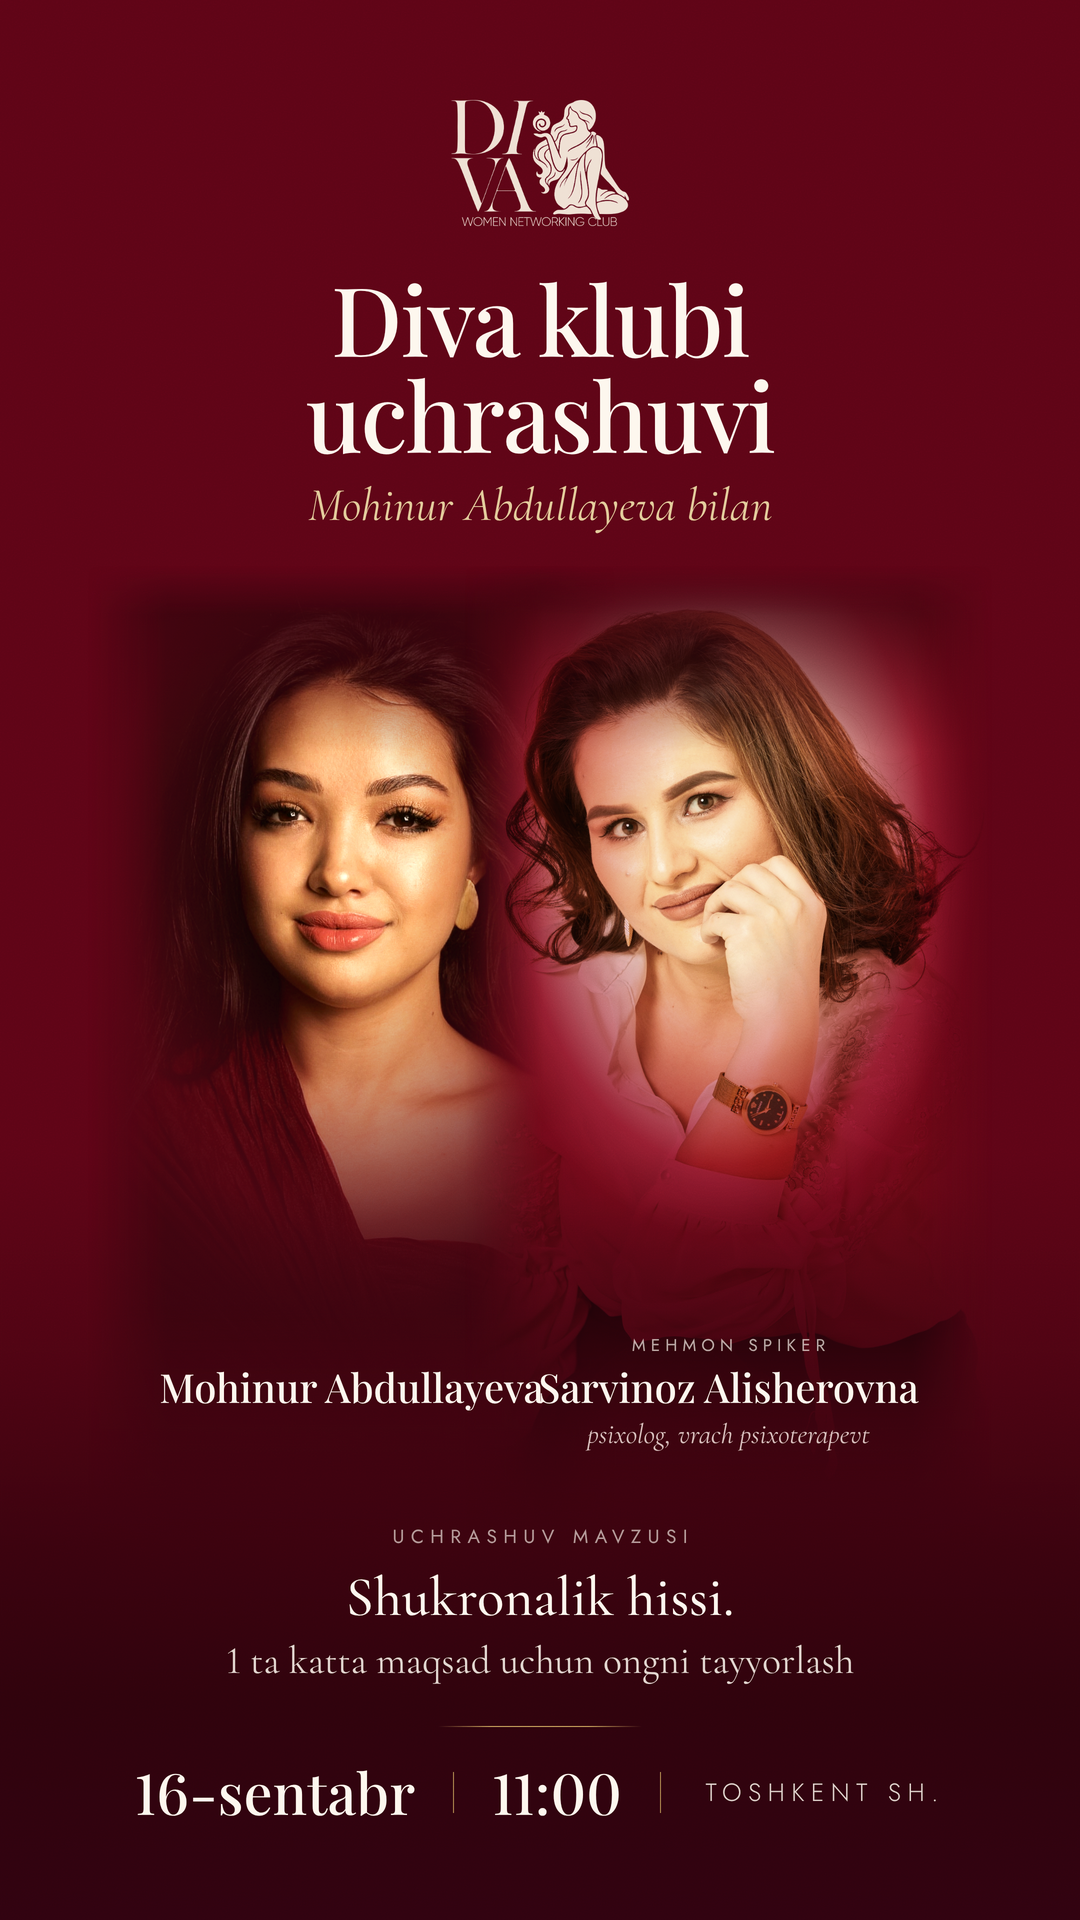
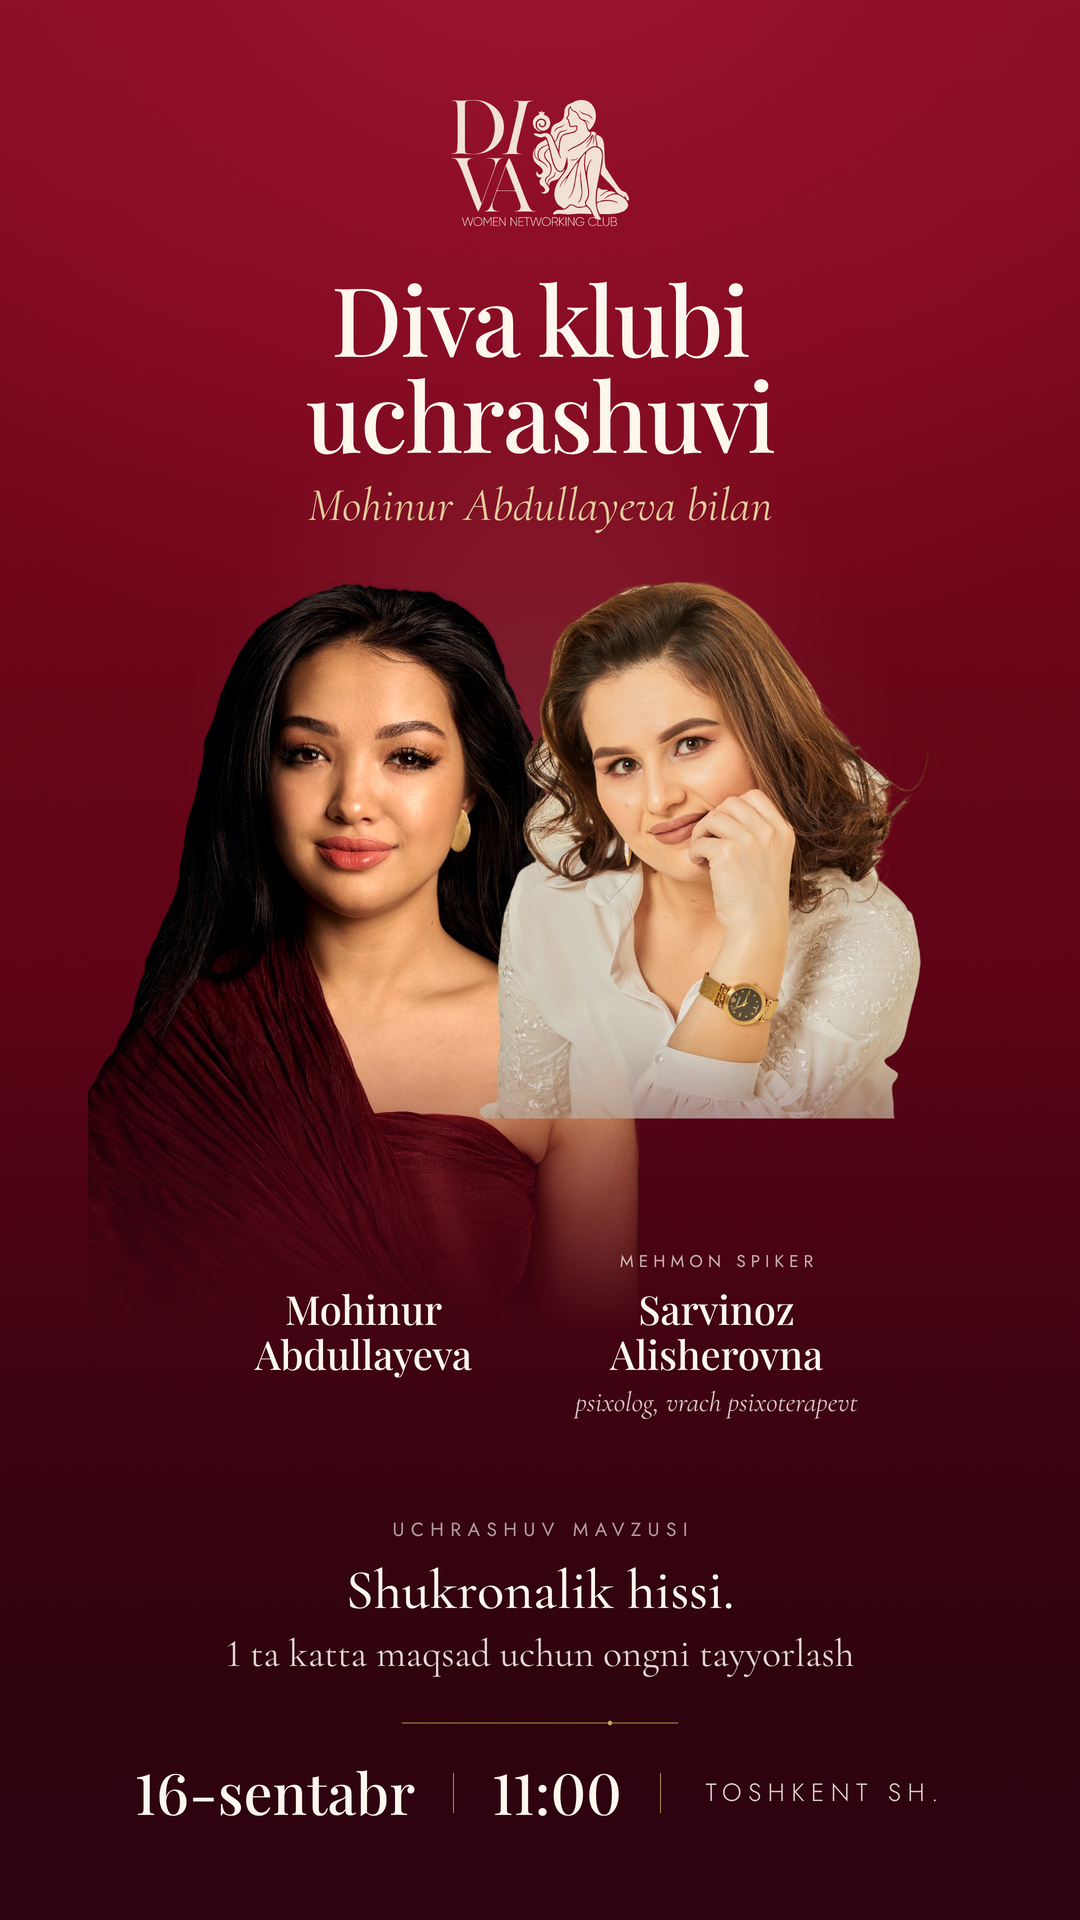
Snapshot in-flight design work
Claude-Session: https://claude.ai/code/session_01CJcxAKvhDYH9Z96uyo456t

diff --git a/diva-club-posts/variant-a.html b/diva-club-posts/variant-a.html
@@ -8,10 +8,10 @@
 <style>
 /* =======================================================================
    VARIANT A — "Modern maroon"
-   A deep maroon field, the two women placed large and frameless (a soft
-   photographic dissolve — no ring, no window, no cut-out rectangle), and a
-   contemporary centred type grid. Decoration budget: one gold hairline,
-   two gold tick rules in the date row. Nothing else.
+   A deep maroon field; the two women stand large and frameless (background
+   removed, the body dissolving into the ground — no ring, no window, no
+   photo rectangle); a contemporary centred type grid above and below.
+   Ornament budget: one gold hairline mark above the date. Nothing else.
    ======================================================================= */
 
 .canvas {
@@ -19,7 +19,7 @@
   color: var(--cream);
   font-family: var(--serif);
 
-  /* ---- geometry (all overridden per ratio) ---- */
+  /* ---------------- geometry (all set per ratio below) ---------------- */
   --padX: 78px;
   --gTop: 74px;
   --gBot: 70px;
@@ -28,26 +28,25 @@
   --gapLogo: 30px;
   --gapHost: 12px;
 
-  --figW: 522px;
-  --figH: 640px;
-  --figOv: 120px;            /* horizontal overlap of the two photo boxes */
+  --figW: 560px;            /* photo box width  — drives the figure scale  */
+  --figH: 640px;            /* photo box height — drives the crop          */
+  --figOv: 196px;           /* how far the two boxes overlap               */
   --stageTop: 400px;
-  --maskX: 15%;              /* side dissolve   */
-  --maskT: 6%;               /* top dissolve    */
-  --maskB: 26%;              /* bottom dissolve */
+  --fadeA: 46%;             /* body fully opaque until here                */
+  --fadeB: 84%;             /* body fully dissolved from here              */
 
-  --namesTop: 860px;
-  --capW: 430px;
+  --namesTop: 862px;
+  --capW: 420px;
   --capOff: calc((var(--figW) - var(--figOv)) / 2);
-  --scrimTop: 760px;
+  --scrimTop: 660px;
 
-  /* ---- type ---- */
+  /* ---------------- type ---------------- */
   --fsTitle: 78px;  --lhTitle: 1.0;
   --fsHost: 40px;
-  --fsTag: 15px;  --fsName: 34px;  --fsRole: 25px;
+  --fsTag: 15px;  --fsName: 32px;  --fsRole: 24px;
   --fsLbl: 16px;  --fsTopic: 45px; --fsTopic2: 32px;
   --fsDate: 47px; --fsCity: 21px;
-  --hairW: 168px; --gapHair: 28px; --gapWhen: 24px; --whenGap: 30px;
+  --markW: 240px; --gapMark: 28px; --gapWhen: 24px; --whenGap: 30px;
 }
 
 figure { margin: 0; }
@@ -55,22 +54,22 @@ figure { margin: 0; }
 /* ------------------------------------------------------------------ ground */
 .ground {
   background:
-    radial-gradient(56% 32% at 50% 40%, rgba(228, 182, 172, .12), transparent 74%),
-    radial-gradient(116% 60% at 50% -8%, #9d1631 0%, #860c23 32%, rgba(134, 12, 35, 0) 72%),
-    linear-gradient(180deg, #7e0b1f 0%, #6d0519 28%, #57 0314 0%, #560314 58%, #3f0210 84%, #300210 100%);
+    radial-gradient(46% 28% at 50% 40%, rgba(234, 198, 186, .15), rgba(234, 198, 186, 0) 72%),
+    radial-gradient(118% 62% at 50% -10%, #a01834 0%, #8a0d25 34%, rgba(138, 13, 37, 0) 74%),
+    linear-gradient(180deg, #7f0d20 0%, #6d0518 26%, #560314 56%, #3c0210 82%, #2c0210 100%);
 }
 
-/* the maroon that swallows the lower half of the figures */
+/* the maroon the lower bodies sink into */
 .scrim {
   position: absolute;
   left: 0; right: 0; bottom: 0;
   top: var(--scrimTop);
   background: linear-gradient(180deg,
     rgba(58, 3, 15, 0) 0%,
-    rgba(56, 3, 14, .40) 26%,
-    rgba(51, 2, 13, .84) 52%,
-    rgba(45, 2, 12, .97) 72%,
-    #300210 100%);
+    rgba(55, 3, 14, .34) 28%,
+    rgba(50, 2, 13, .78) 54%,
+    rgba(44, 2, 12, .95) 74%,
+    #2c0210 100%);
   pointer-events: none;
 }
 
@@ -89,58 +88,13 @@ figure { margin: 0; }
   flex: 0 0 auto;
   width: var(--figW);
   height: var(--figH);
-  -webkit-mask-image: linear-gradient(180deg,
-      rgba(0,0,0,0) 0%, #000 var(--maskT),
-      #000 calc(100% - var(--maskB)), rgba(0,0,0,0) 100%);
-          mask-image: linear-gradient(180deg,
-      rgba(0,0,0,0) 0%, #000 var(--maskT),
-      #000 calc(100% - var(--maskB)), rgba(0,0,0,0) 100%);
+  overflow: hidden;
+  -webkit-mask-image: linear-gradient(180deg, #000 var(--fadeA), rgba(0,0,0,0) var(--fadeB));
+          mask-image: linear-gradient(180deg, #000 var(--fadeA), rgba(0,0,0,0) var(--fadeB));
 }
 .fig--s { margin-left: calc(var(--figOv) * -1); }
-
-.fig-in {
-  position: absolute;
-  inset: 0;
-  overflow: hidden;
-  -webkit-mask-image: linear-gradient(90deg,
-      rgba(0,0,0,0) 0%, #000 var(--maskX),
-      #000 calc(100% - var(--maskX)), rgba(0,0,0,0) 100%);
-          mask-image: linear-gradient(90deg,
-      rgba(0,0,0,0) 0%, #000 var(--maskX),
-      #000 calc(100% - var(--maskX)), rgba(0,0,0,0) 100%);
-}
-.fig--m .fig-in img { filter: brightness(1.07) contrast(1.02) saturate(.99); }
-.fig--s .fig-in img { filter: brightness(.99) contrast(1.05) saturate(.80); }
-
-/* Each source frame carries its own studio ground — Mohinur's is near-black,
-   Sarvinoz's is beige. These two graded washes pull both of them into the
-   same maroon before the mask dissolves the edge, so neither leaves a halo. */
-.tone { position: absolute; inset: 0; }
-.fig--m .tone {
-  background: radial-gradient(58% 48% at 50% 30%,
-    rgba(112, 8, 28, 0)   24%,
-    rgba(104, 7, 25, .38) 52%,
-    rgba(86, 5, 20, .82)  78%,
-    rgba(66, 4, 16, .97) 100%);
-}
-.fig--s .tone {
-  mix-blend-mode: multiply;
-  background: radial-gradient(56% 46% at 49% 29%,
-    rgba(255,255,255,0)   0%,
-    rgba(255,255,255,0)   25%,
-    rgba(206, 98, 116,.58) 46%,
-    rgba(158, 20, 48, .94) 70%,
-    rgba(126, 10, 32, 1)  86%,
-    rgba(118, 9, 30, 1)  100%);
-}
-/* top + bottom edge wash so the dissolve always ends in maroon, never in a
-   bright rim of studio backdrop */
-.veil {
-  position: absolute; inset: 0;
-  background:
-    linear-gradient(180deg, rgba(58,3,14,.96) 0%, rgba(58,3,14,.62) 6%, rgba(58,3,14,0) 19%),
-    linear-gradient(0deg,   rgba(50,2,13,1)   0%, rgba(50,2,13,.66) 12%, rgba(50,2,13,0) 36%);
-}
+.fig--m img { filter: brightness(1.05) contrast(1.02); }
+.fig--s img { filter: brightness(.98) contrast(1.03) saturate(.90); }
 
 /* -------------------------------------------------------------------- head */
 .head {
@@ -188,7 +142,7 @@ figure { margin: 0; }
   letter-spacing: .3em;
   text-indent: .3em;
   text-transform: uppercase;
-  color: rgba(251, 244, 234, .68);
+  color: rgba(251, 244, 234, .7);
   height: calc(var(--fsTag) * 1.25);
   line-height: 1.25;
 }
@@ -196,18 +150,18 @@ figure { margin: 0; }
   font-family: var(--display);
   font-weight: 500;
   font-size: var(--fsName);
-  line-height: 1.16;
+  line-height: 1.14;
+  letter-spacing: -.004em;
   color: #fdf7ee;
-  margin: calc(var(--fsTag) * .46) 0 0;
-  white-space: nowrap;
+  margin: calc(var(--fsTag) * .8) 0 0;
 }
 .role {
   font-family: var(--serif);
   font-style: italic;
   font-size: var(--fsRole);
   line-height: 1.24;
-  color: rgba(245, 228, 222, .84);
-  margin: calc(var(--fsRole) * .22) 0 0;
+  color: rgba(245, 228, 222, .86);
+  margin: calc(var(--fsRole) * .3) 0 0;
   white-space: nowrap;
 }
 
@@ -245,11 +199,14 @@ figure { margin: 0; }
   color: rgba(251, 244, 234, .88);
   margin: calc(var(--fsTopic2) * .2) 0 0;
 }
-.hair {
-  width: var(--hairW);
-  height: 1px;
-  margin: var(--gapHair) auto 0;
-  background: linear-gradient(90deg, rgba(201,162,91,0), var(--gold) 26%, var(--gold) 74%, rgba(201,162,91,0));
+/* the post's single ornament */
+.mark {
+  width: var(--markW);
+  height: calc(var(--markW) * 16 / 600);
+  margin: var(--gapMark) auto 0;
+  -webkit-mask: url("assets/orn/mark-rule-dot.svg") center/contain no-repeat;
+          mask: url("assets/orn/mark-rule-dot.svg") center/contain no-repeat;
+  background: var(--gold);
 }
 .when {
   display: flex;
@@ -268,7 +225,7 @@ figure { margin: 0; }
 }
 .v {
   width: 1px;
-  height: calc(var(--fsDate) * .72);
+  height: calc(var(--fsDate) * .7);
   background: rgba(201, 162, 91, .8);
   display: block;
   flex: 0 0 auto;
@@ -287,42 +244,42 @@ figure { margin: 0; }
 html[data-r="9x16"] .canvas {
   --padX: 88px; --gTop: 100px; --gBot: 96px;
   --logoW: 178px; --gapLogo: 44px; --gapHost: 16px;
-  --figW: 527px; --figH: 980px; --figOv: 150px;
-  --stageTop: 566px; --maskX: 15%; --maskT: 5%; --maskB: 24%;
-  --namesTop: 1336px; --capW: 440px; --scrimTop: 1150px;
+  --figW: 551px; --figH: 820px; --figOv: 198px;
+  --stageTop: 546px; --fadeA: 62%; --fadeB: 96%;
+  --namesTop: 1252px; --capW: 430px; --scrimTop: 1010px;
   --fsTitle: 96px; --fsHost: 47px;
   --fsTag: 17px; --fsName: 40px; --fsRole: 28px;
   --fsLbl: 19px; --fsTopic: 56px; --fsTopic2: 39px;
   --fsDate: 57px; --fsCity: 25px;
-  --hairW: 204px; --gapHair: 40px; --gapWhen: 34px; --whenGap: 38px;
+  --markW: 300px; --gapMark: 40px; --gapWhen: 34px; --whenGap: 38px;
 }
 
 /* ====================================================================== 4:5 */
 html[data-r="4x5"] .canvas {
   --padX: 78px; --gTop: 74px; --gBot: 70px;
   --logoW: 146px; --gapLogo: 30px; --gapHost: 12px;
-  --figW: 522px; --figH: 640px; --figOv: 120px;
-  --stageTop: 400px; --maskX: 15%; --maskT: 6%; --maskB: 26%;
-  --namesTop: 858px; --capW: 434px; --scrimTop: 758px;
+  --figW: 560px; --figH: 640px; --figOv: 196px;
+  --stageTop: 400px; --fadeA: 46%; --fadeB: 84%;
+  --namesTop: 860px; --capW: 420px; --scrimTop: 650px;
   --fsTitle: 78px; --fsHost: 40px;
-  --fsTag: 15px; --fsName: 34px; --fsRole: 25px;
+  --fsTag: 15px; --fsName: 32px; --fsRole: 24px;
   --fsLbl: 16px; --fsTopic: 45px; --fsTopic2: 32px;
   --fsDate: 47px; --fsCity: 21px;
-  --hairW: 168px; --gapHair: 28px; --gapWhen: 24px; --whenGap: 30px;
+  --markW: 240px; --gapMark: 28px; --gapWhen: 24px; --whenGap: 30px;
 }
 
 /* ====================================================================== 1:1 */
 html[data-r="1x1"] .canvas {
-  --padX: 72px; --gTop: 66px; --gBot: 66px;
-  --logoW: 124px; --gapLogo: 22px; --gapHost: 10px;
-  --figW: 543px; --figH: 470px; --figOv: 150px;
-  --stageTop: 352px; --maskX: 15%; --maskT: 6%; --maskB: 24%;
-  --namesTop: 690px; --capW: 420px; --scrimTop: 596px;
+  --padX: 72px; --gTop: 62px; --gBot: 60px;
+  --logoW: 118px; --gapLogo: 20px; --gapHost: 8px;
+  --figW: 567px; --figH: 640px; --figOv: 198px;
+  --stageTop: 340px; --fadeA: 30%; --fadeB: 62%;
+  --namesTop: 662px; --capW: 400px; --scrimTop: 520px;
   --fsTitle: 60px; --fsHost: 33px;
-  --fsTag: 14px; --fsName: 30px; --fsRole: 22px;
+  --fsTag: 14px; --fsName: 29px; --fsRole: 22px;
   --fsLbl: 15px; --fsTopic: 38px; --fsTopic2: 27px;
   --fsDate: 41px; --fsCity: 19px;
-  --hairW: 140px; --gapHair: 22px; --gapWhen: 20px; --whenGap: 26px;
+  --markW: 190px; --gapMark: 22px; --gapWhen: 20px; --whenGap: 26px;
 }
 </style>
 </head>
@@ -332,18 +289,10 @@ html[data-r="1x1"] .canvas {
 
   <div class="stage">
     <figure class="fig fig--m">
-      <span class="fig-in">
-        <img class="ph ph--mohinur" src="assets/derived/mohinur-warm.jpg" alt="Mohinur Abdullayeva">
-        <span class="tone"></span>
-        <span class="veil"></span>
-      </span>
+      <img class="ph ph--mohinur" src="assets/cutout/mohinur-cut-soft.png" alt="Mohinur Abdullayeva">
     </figure>
     <figure class="fig fig--s">
-      <span class="fig-in">
-        <img class="ph ph--sarvinoz" src="assets/derived/sarvinoz-warm.jpg" alt="Sarvinoz Alisherovna">
-        <span class="tone"></span>
-        <span class="veil"></span>
-      </span>
+      <img class="ph ph--sarvinoz" src="assets/cutout/sarvinoz-cut-soft.png" alt="Sarvinoz Alisherovna">
     </figure>
   </div>
 
@@ -358,11 +307,11 @@ html[data-r="1x1"] .canvas {
   <div class="names">
     <div class="cap cap--l">
       <div class="tag"></div>
-      <div class="nm">Mohinur Abdullayeva</div>
+      <div class="nm">Mohinur<br>Abdullayeva</div>
     </div>
     <div class="cap cap--r">
       <div class="tag">Mehmon spiker</div>
-      <div class="nm">Sarvinoz Alisherovna</div>
+      <div class="nm">Sarvinoz<br>Alisherovna</div>
       <div class="role">psixolog, vrach psixoterapevt</div>
     </div>
   </div>
@@ -371,7 +320,7 @@ html[data-r="1x1"] .canvas {
     <p class="lbl">Uchrashuv mavzusi</p>
     <p class="topic">Shukronalik hissi.</p>
     <p class="topic2">1 ta katta maqsad uchun ongni tayyorlash</p>
-    <div class="hair"></div>
+    <div class="mark"></div>
     <div class="when">
       <span class="d num">16-sentabr</span>
       <i class="v"></i>
